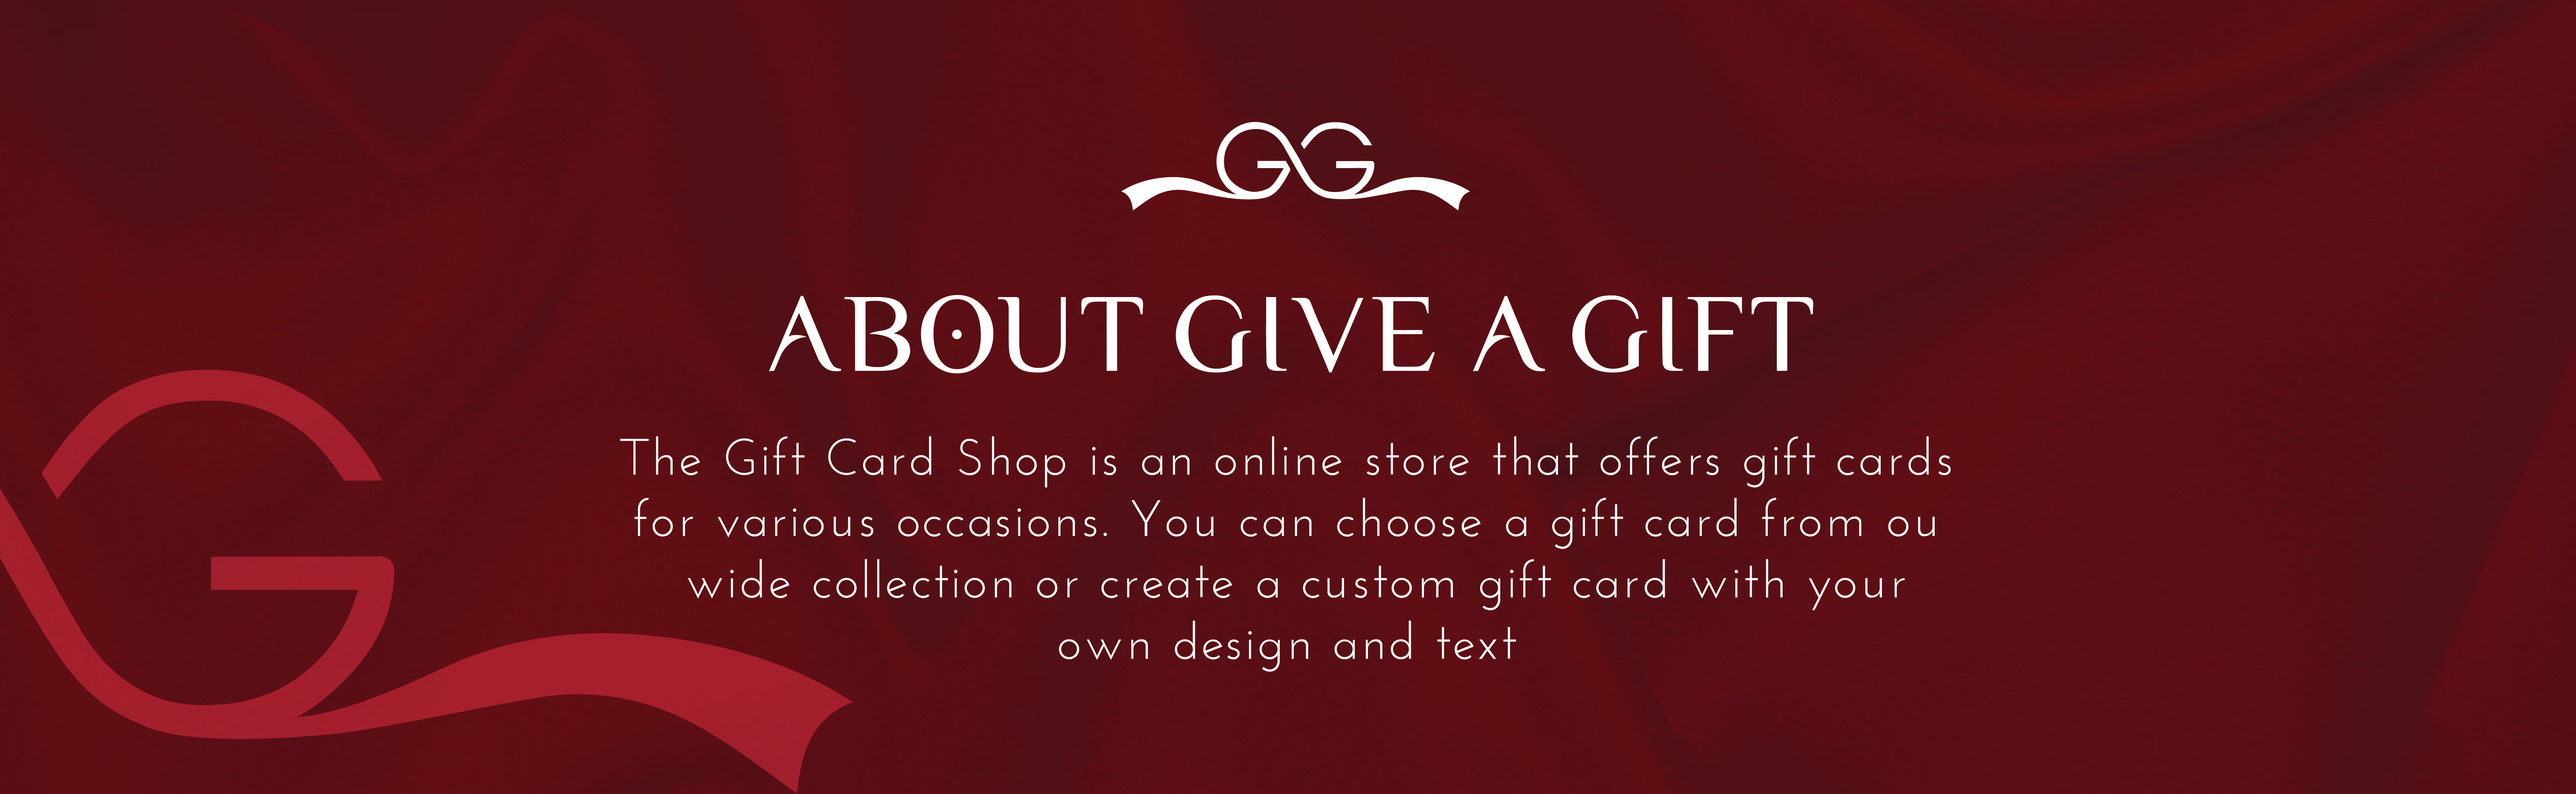
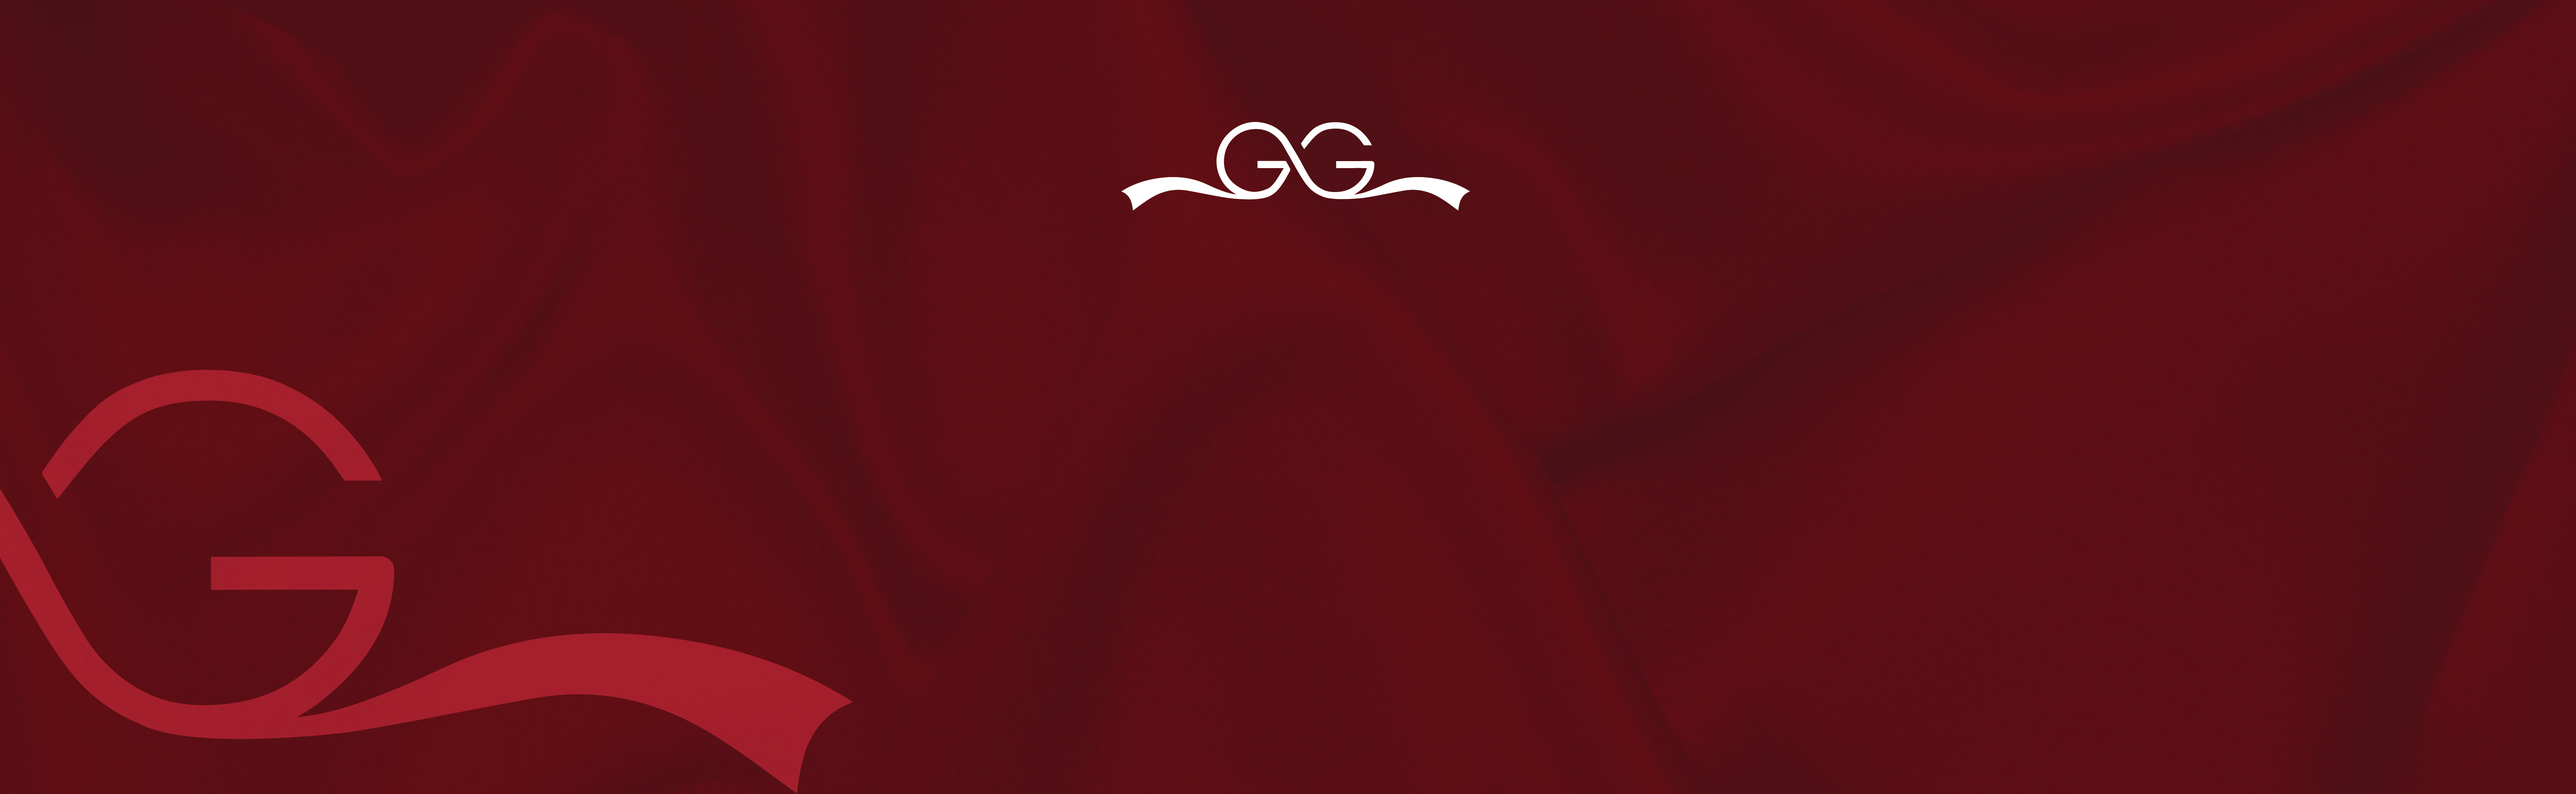
main

diff --git a/src/components/CustomTextImgSection.jsx b/src/components/CustomTextImgSection.jsx
@@ -1,5 +1,5 @@
 import { Container, Typography } from "@mui/material";
-
+import { useTranslation } from "react-i18next";
 export default function CustomTextImgSection({
 	imgUrl = "https://source.unsplash.com/random/1400x800",
 	titlePrefix,
@@ -8,7 +8,11 @@ export default function CustomTextImgSection({
 	reverse = false,
 	secondary = false,
 	className,
+	textOn
 }) {
+	const { t } = useTranslation();
+
+	
 	return (
 		<Container
 			component="section"
@@ -16,7 +20,7 @@ export default function CustomTextImgSection({
 				reverse ? "flex-row-reverse" : ""
 			} justify-between flex-wrap *:rtl:text-right`}
 		>
-			<div className={`${className ? "w-full" : "md:w-6/12  w-full h-full"}`}>
+			<div className={`${className ? "w-full" : "md:w-6/12  w-full h-full"} relative`}>
 				<img
 					src={imgUrl}
 					alt={title}
@@ -24,6 +28,24 @@ export default function CustomTextImgSection({
 						secondary ? "h-52 md:h-auto" : "h-[300px]"
 					} w-full`}
 				/>
+				{textOn &&
+				<div className="bg-primary-500/75  right-[24%] bottom-[20%] py-8 px-12 mx-8 rounded-2xl shadow-2xl absolute  z-10">
+					<Typography
+						variant="h2"
+						component="h1"
+						className="text-gray-50 capitalize text-center !text-4xl md:!text-7xl"
+					>
+						{t("home.hero.title")} {t("siteTitle")}
+					</Typography>
+					<Typography
+						variant="h5"
+						component="p"
+						className="text-gray-200 capitalize text-center !text-xl md:!text-3xl"
+					>
+						{t("home.hero.description")}
+					</Typography>
+				</div>
+}
 			</div>
 
 			<div className="flex flex-col justify-center md:w-5/12 w-full !text-center lg:!text-start mt-5 lg:mt-0">

diff --git a/my_image_processing_api/connect-shops.js b/my_image_processing_api/connect-shops.js
@@ -1,0 +1,42 @@
+// universal-gift-card-api.js
+// Enhanced Universal API with API key authentication
+
+const express = require("express");
+const app = express();
+app.use(express.json());
+
+// Mock data for valid discount codes
+const validDiscountCodes = {
+  ABC123: { isValid: true, discountValue: 10 },
+  XYZ789: { isValid: true, discountValue: 20 },
+};
+
+// Mock API keys storage
+const validApiKeys = ["12345", "67890"]; // In real scenario, this should be stored securely
+
+// Middleware for API key authentication
+function authenticateApiKey(req, res, next) {
+  const apiKey = req.headers["x-api-key"];
+  if (validApiKeys.includes(apiKey)) {
+    next();
+  } else {
+    res.status(401).json({ message: "Invalid API Key" });
+  }
+}
+
+// POST endpoint to validate gift cards with API key authentication
+app.post("/api/validate-gift-card", authenticateApiKey, (req, res) => {
+  const { code } = req.body;
+
+  if (validDiscountCodes[code]) {
+    res.json(validDiscountCodes[code]);
+  } else {
+    res.json({ isValid: false, discountValue: 0 });
+  }
+});
+
+// Start the server
+const PORT = 5000;
+app.listen(PORT, () => {
+  console.log(`Universal Gift Card API running on port ${PORT}`);
+});

diff --git a/my_image_processing_api/server.js b/my_image_processing_api/server.js
@@ -102,6 +102,34 @@ app.post("/process-payment", async (req, res) => {
 //   .then((invoice) => console.log("Invoice created:", invoice))
 //   .catch((err) => console.error("Error:", err));
 
+const validDiscountCodes = {
+  ABC123: { isValid: true, discountValue: 10 },
+  XYZ789: { isValid: true, discountValue: 20 },
+};
+
+// Mock API keys storage
+const validApiKeys = ["12345", "67890"]; // In real scenario, this should be stored securely
+
+// Middleware for API key authentication
+function authenticateApiKey(req, res, next) {
+  const apiKey = req.headers["x-api-key"];
+  if (validApiKeys.includes(apiKey)) {
+    next();
+  } else {
+    res.status(401).json({ message: "Invalid API Key" });
+  }
+}
+
+// POST endpoint to validate gift cards with API key authentication
+app.post("/api/validate-gift-card", authenticateApiKey, (req, res) => {
+  const { code } = req.body;
+
+  if (validDiscountCodes[code]) {
+    res.json(validDiscountCodes[code]);
+  } else {
+    res.json({ isValid: false, discountValue: 0 });
+  }
+});
 
 
 app.get("/api/cards", (req, res) => {

diff --git a/src/components/CustomCard.jsx b/src/components/CustomCard.jsx
@@ -11,13 +11,13 @@ export default function CustomCard({ title, description, front, back }) {
 				<Link to="/custom-gift-card">
 					<div className="relative group flex">
 						<img
-							className="w-full md:h-42  rounded-2xl  h-42   object-cover transition duration-500 group-hover:opacity-0 group:hover:scale-75 z-10"
+							className="w-full md:h-42  rounded-2xl  h-52   object-cover transition duration-500 group-hover:opacity-0 group:hover:scale-75 z-10"
 							src={front}
 				           
 							alt="card front face"
 						/>
 						<img
-							className="absolute top-0 w-full md:h-42  h-42 rounded-2xl object-cover opacity-0 scale-x-75 transition group-hover:opacity-100 group-hover:scale-x-100"
+							className="absolute top-0 w-full md:h-42  h-52 rounded-2xl object-cover opacity-0 scale-x-75 transition group-hover:opacity-100 group-hover:scale-x-100"
 							src={back}
 				
 							alt="card back face"

diff --git a/src/components/CardPreview.jsx b/src/components/CardPreview.jsx
@@ -15,12 +15,12 @@ export default function CardPreview({ cardSitting, back, ShowBrand }) {
 	return (
 		<div>
 			<figure
-				className="relative md:w-[30rem] w-full shrink-0 md:h-72 h-48 rounded-2xl  overflow-hidden transition-colors"
+				className="relative w-[260px] md:w-[30rem] w-full shrink-0 md:h-72 h-48 rounded-2xl  overflow-hidden transition-colors"
 				style={{ backgroundColor: cardSitting.color }}
 			>
 				{!back ? (
 					<>
-						<div className="absolute inset-0">
+						<div className="absolute w-full">
 							{cardSitting.shape ? (
 								<img
 									src={cardSitting.shape}

diff --git a/src/components/Navbar/NavLink.jsx b/src/components/Navbar/NavLink.jsx
@@ -1,6 +1,6 @@
 import { NavLink as RouterNavLink } from "react-router-dom";
 
-export default function NavLink({ title, link }) {
+export default function NavLink({ title, link, onClick }) {
 	return (
 		<RouterNavLink
 			to={link}
@@ -9,6 +9,7 @@ export default function NavLink({ title, link }) {
 					isActive ? "text-secondary-500" : ""
 				}`;
 			}}
+			onClick={onClick}
 		>
 			{title}
 		</RouterNavLink>

diff --git a/src/pages/Home/components/CardsSection.jsx b/src/pages/Home/components/CardsSection.jsx
@@ -39,15 +39,15 @@ const cards = [
 	{
 		
 		title: "gift",
-		front: '/images/home1.webp',
+		front: '/images/home2.png',
 		back: '/images/home2-back.webp'
        
     },
 
 	{
 		title: "custom",
-		front: '/images/home2.webp',
-		back: '/images/home1-back.webp'
+		front: '/images/home1.png',
+		back: '/images/home1-back.png'
 
 	},
 ];

diff --git a/src/components/Navbar/NavLinks.jsx b/src/components/Navbar/NavLinks.jsx
@@ -9,7 +9,7 @@ export default function NavLinks({ t, language }) {
 
 	const navLinksList = navLinks.map((link) => (
 		<li key={link.title}>
-			<NavLink title={t(`navbar.${link.title}`)} link={link.link} />
+			<NavLink title={t(`navbar.${link.title}`)} link={link.link} onClick={() => setIsDrawerOpen(false)} />
 		</li>
 	));
 

diff --git a/src/pages/Home/components/AboutSection.jsx b/src/pages/Home/components/AboutSection.jsx
@@ -3,10 +3,11 @@ import CustomTextImgSection from "../../../components/CustomTextImgSection";
 export default function AboutSection() {
 	return (
 		<CustomTextImgSection
-			imgUrl="/images/about.webp"
+			imgUrl="/images/about.png"
 			className={"w-full"}
 			reverse
 			secondary
+			textOn={true}
 		/>
 	);
 }
